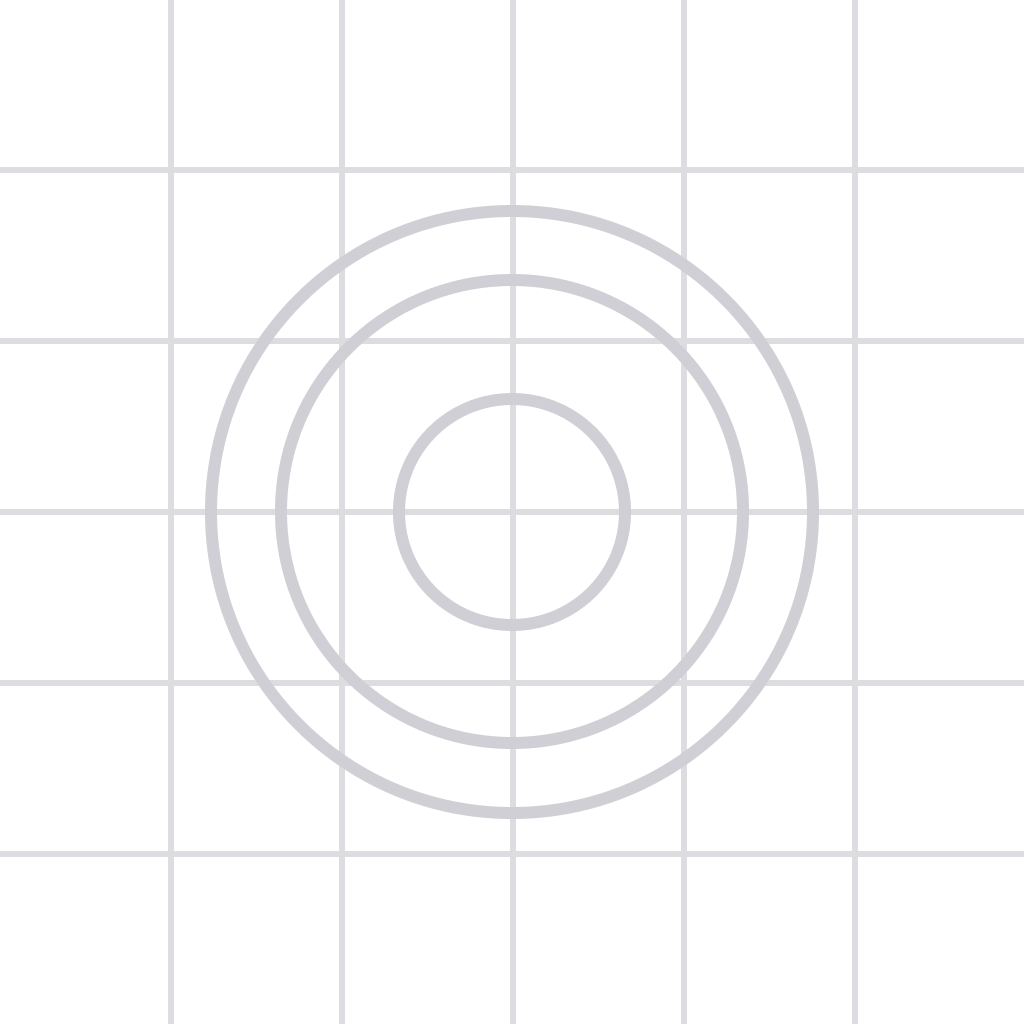
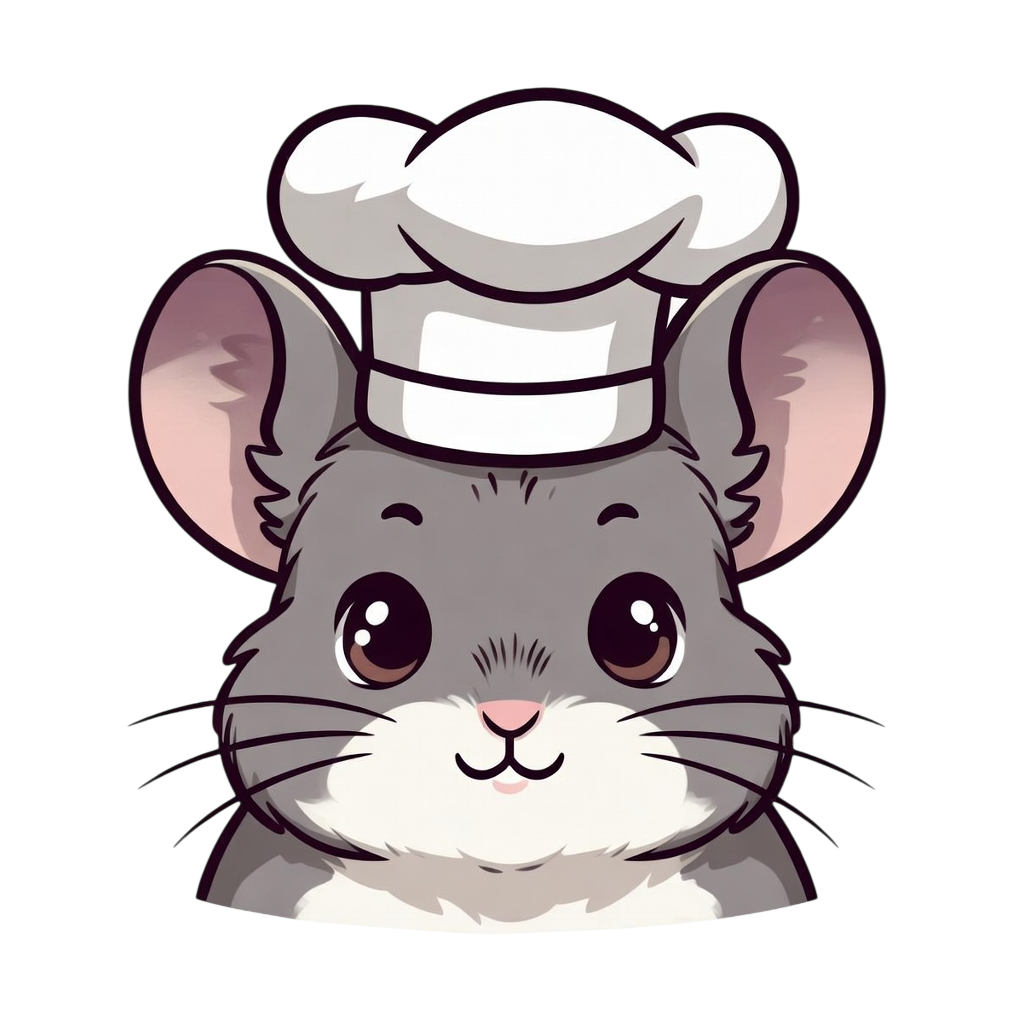
Adds mobile ready to build

diff --git a/apps/mobile/App.js b/apps/mobile/App.js
@@ -1,7 +1,5 @@
 import React, { useState, useEffect, useCallback } from "react";
 import {
-  View,
-  Image,
   KeyboardAvoidingView,
   Platform,
   Alert,
@@ -80,7 +78,6 @@ export default function App() {
 
   const syncRecipes = useCallback(async () => {
     try {
-      console.log("API ", API_URL)
       const response = await axios.post(`${API_URL}/ingestion/sync-recipes`);
       const summary = response.data.summary;
       setSyncResult(summary);
@@ -111,17 +108,17 @@ export default function App() {
     }
   }, []);
 
-  if (!fontsLoaded || showSplash) {
-    return (
-      <View style={{ flex: 1, justifyContent: "center", alignItems: "center", backgroundColor: "#f4f4f4" }}>
-        <Image 
-          source={require("./assets/splash.jpg")} 
-          style={{ width: 320, height: 320 }} 
-          resizeMode="contain" 
-        />
-      </View>
-    );
-  }
+  // if (!fontsLoaded || showSplash) {
+  //   return (
+  //     <View style={{ flex: 1, justifyContent: "center", alignItems: "center", backgroundColor: "#f4f4f4" }}>
+  //       <Image 
+  //         source={require("./assets/splash.jpg")} 
+  //         style={{ width: 320, height: 320 }} 
+  //         resizeMode="contain" 
+  //       />
+  //     </View>
+  //   );
+  // }
 
   return (
     <SafeAreaView style={styles.safeArea}>

diff --git a/apps/mobile/app.config.ts b/apps/mobile/app.config.ts
@@ -14,7 +14,7 @@ const config: ExpoConfig = {
       "expo-splash-screen",
       {
         image: "./assets/splash.jpg",
-        imageWidth: 220,
+        imageWidth: 320,
         resizeMode: "contain",
         backgroundColor: "#FAFAFA"
       }
@@ -27,6 +27,7 @@ const config: ExpoConfig = {
   },
 
   android: {
+    package: "com.kpuwal.recipeassistant",
     softwareKeyboardLayoutMode: "resize",
     adaptiveIcon: {
       foregroundImage: "./assets/adaptive-icon.png",
@@ -42,6 +43,9 @@ const config: ExpoConfig = {
   // Environment variables go here
   extra: {
     apiUrl: process.env.EXPO_PUBLIC_API_URL,
+    "eas": {
+        "projectId": "e40096af-f004-416f-a2ff-9d06c1699873"
+      }
   },
 };
 